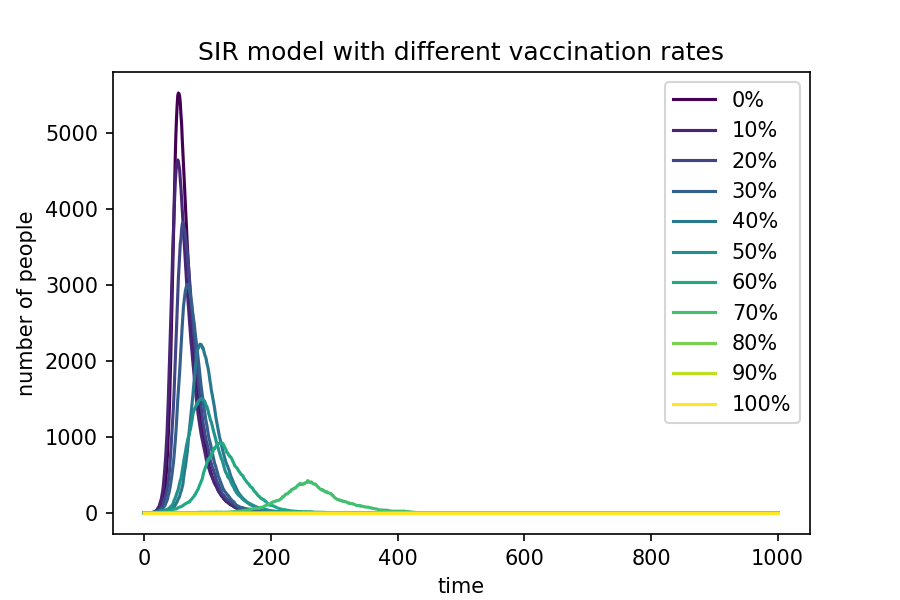
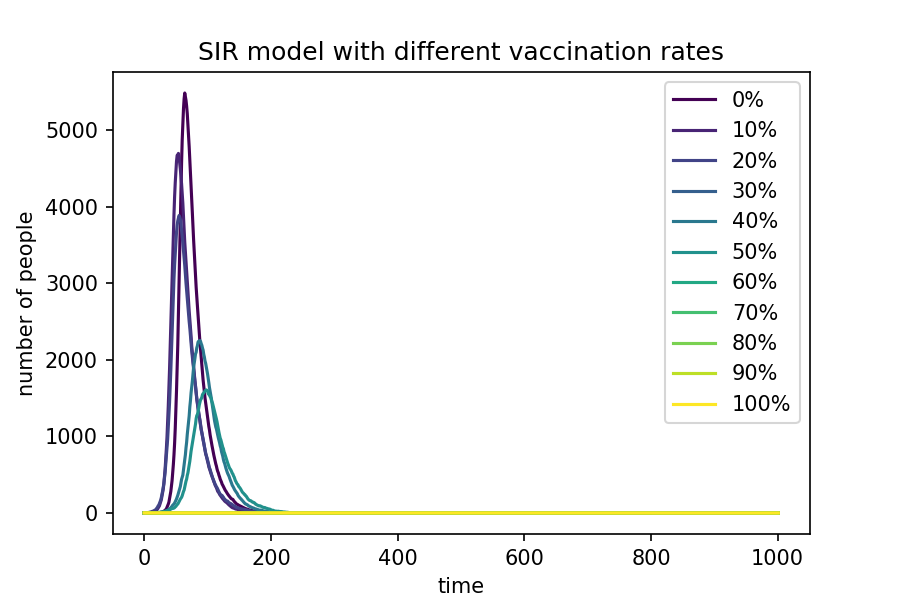
list the rate 1.0 and recommit image

diff --git a/Practical9/SIR_vaccination.py b/Practical9/SIR_vaccination.py
@@ -14,7 +14,10 @@ for rate in vaccination_rates:
     I= 1 #define people who are infected
     R= V #redefine people who are recoverd
     S= N-I-R #redefine people who are susceptible
-    I_history=[I] #make teh list to track
+    if S<0: #list the rate 1.0 condition separately
+            S=0         
+            R=N
+    I_history=[I] #make the list to track
 #repeat for 1000 times
 #caculate probability of getting infected
 #determine who can get infected
@@ -24,11 +27,6 @@ for rate in vaccination_rates:
 #creat list to track 
     for t in range(1001): #repeat for 1000 times
         p_infected= b*(I/N) #caculate probability of getting infected
-        if S<0: #list the rate-1.0 condition separately
-            S=0
-            I=0
-            R=N
-            I_history=[I]
         infected= np.random.choice(range(2),size=S,p=[1-p_infected,p_infected]) #count 1 as infected
         new_infected= 0
         for people in infected: